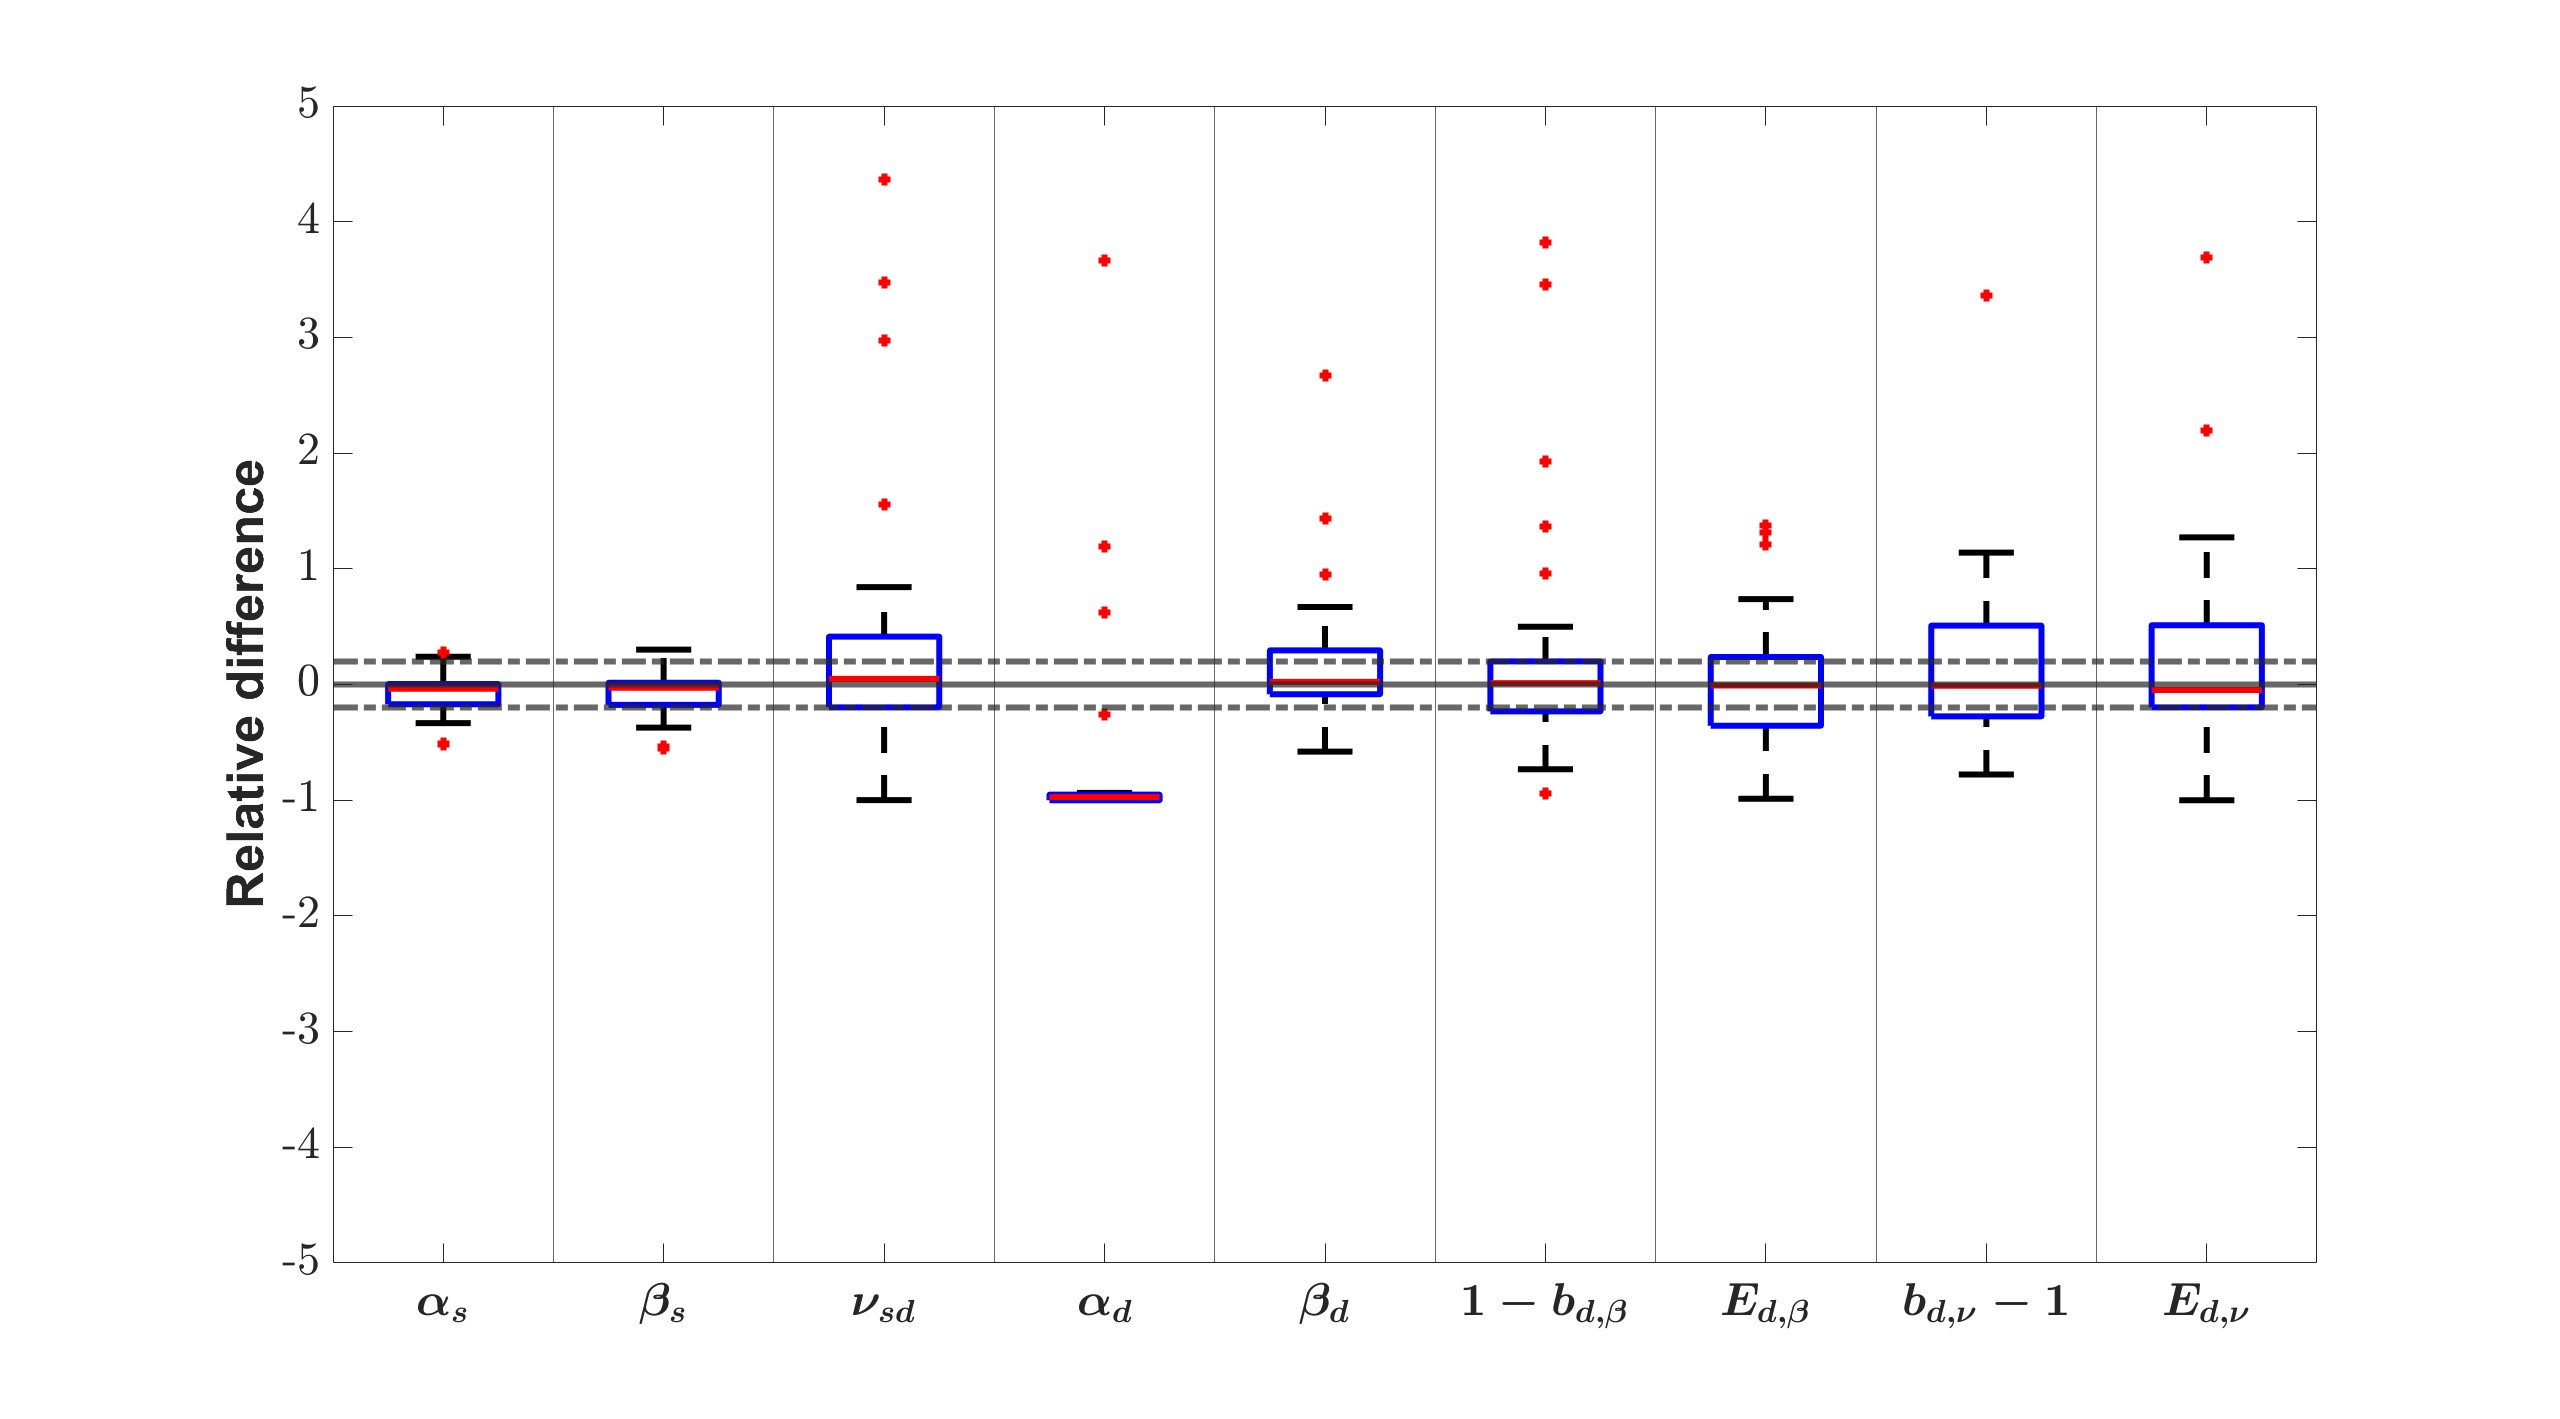
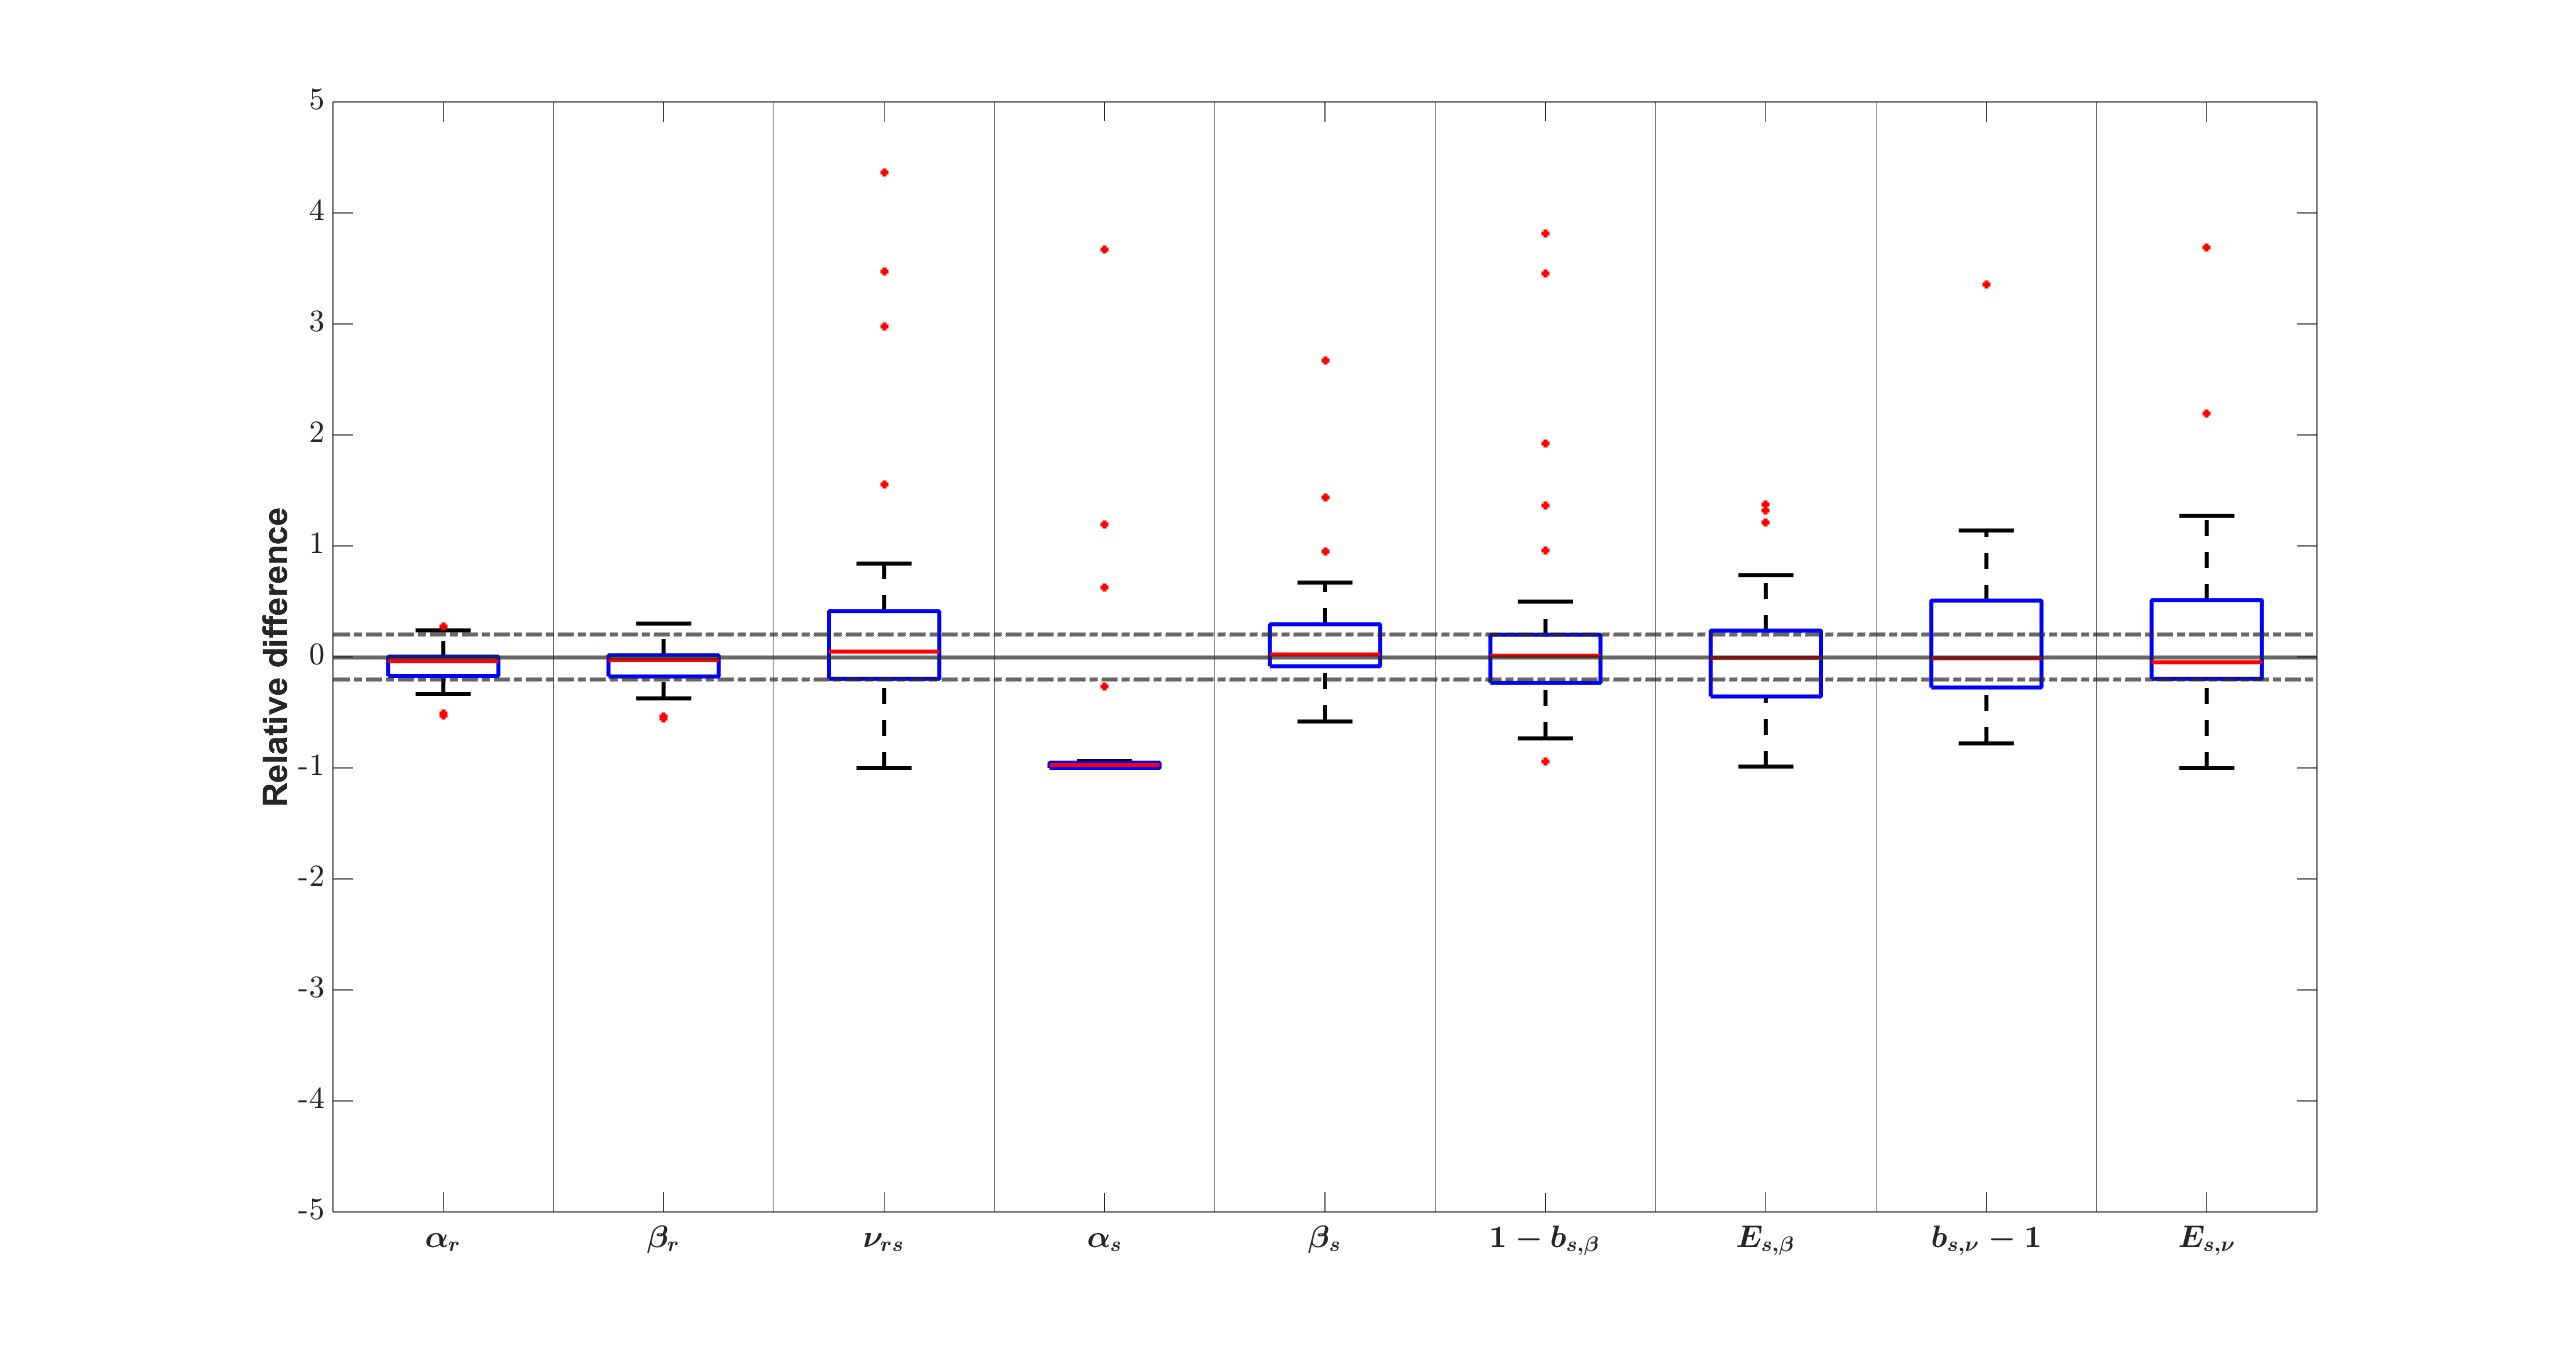
Subscripts

diff --git a/In silico experiments analysis/Plot_Figure12_13_14_15.m b/In silico experiments analysis/Plot_Figure12_13_14_15.m
@@ -1,9 +1,9 @@
 %% Hierarchy 
 load('Results\hierarchy.mat')
 hold on
-target = cap_1_e_hist; % Plot Figure 11, 12, 13, 14 by setting this value as cap_0_e_hist, cap_1_e_hist, cap_2_e_hist, cap_3_e_hist respectively.
-name = ["\boldmath$\alpha_s$","\boldmath$\beta_s$","\boldmath$\nu_{sd}$","\boldmath$\alpha_{d}$",...
-"\boldmath$\beta_{d}$","\boldmath$1-b_{d,\beta}$","\boldmath$E_{d,\beta}$","\boldmath$b_{d,\nu}-1$","\boldmath$E_{d,\nu}$"];
+target = cap_3_e_hist; % Plot Figure 12, 13, 14, 15 by setting this value as cap_0_e_hist, cap_1_e_hist, cap_2_e_hist, cap_3_e_hist respectively.
+name = ["\boldmath$\alpha_r$","\boldmath$\beta_r$","\boldmath$\nu_{rs}$","\boldmath$\alpha_{s}$",...
+"\boldmath$\beta_{s}$","\boldmath$1-b_{s,\beta}$","\boldmath$E_{s,\beta}$","\boldmath$b_{s,\nu}-1$","\boldmath$E_{s,\nu}$"];
 sc = boxplot(target,name);
 set(sc,'LineWidth',3)
 xline([1.5,2.5,3.5,4.5,5.5,6.5,7.5,8.5,9.5])
